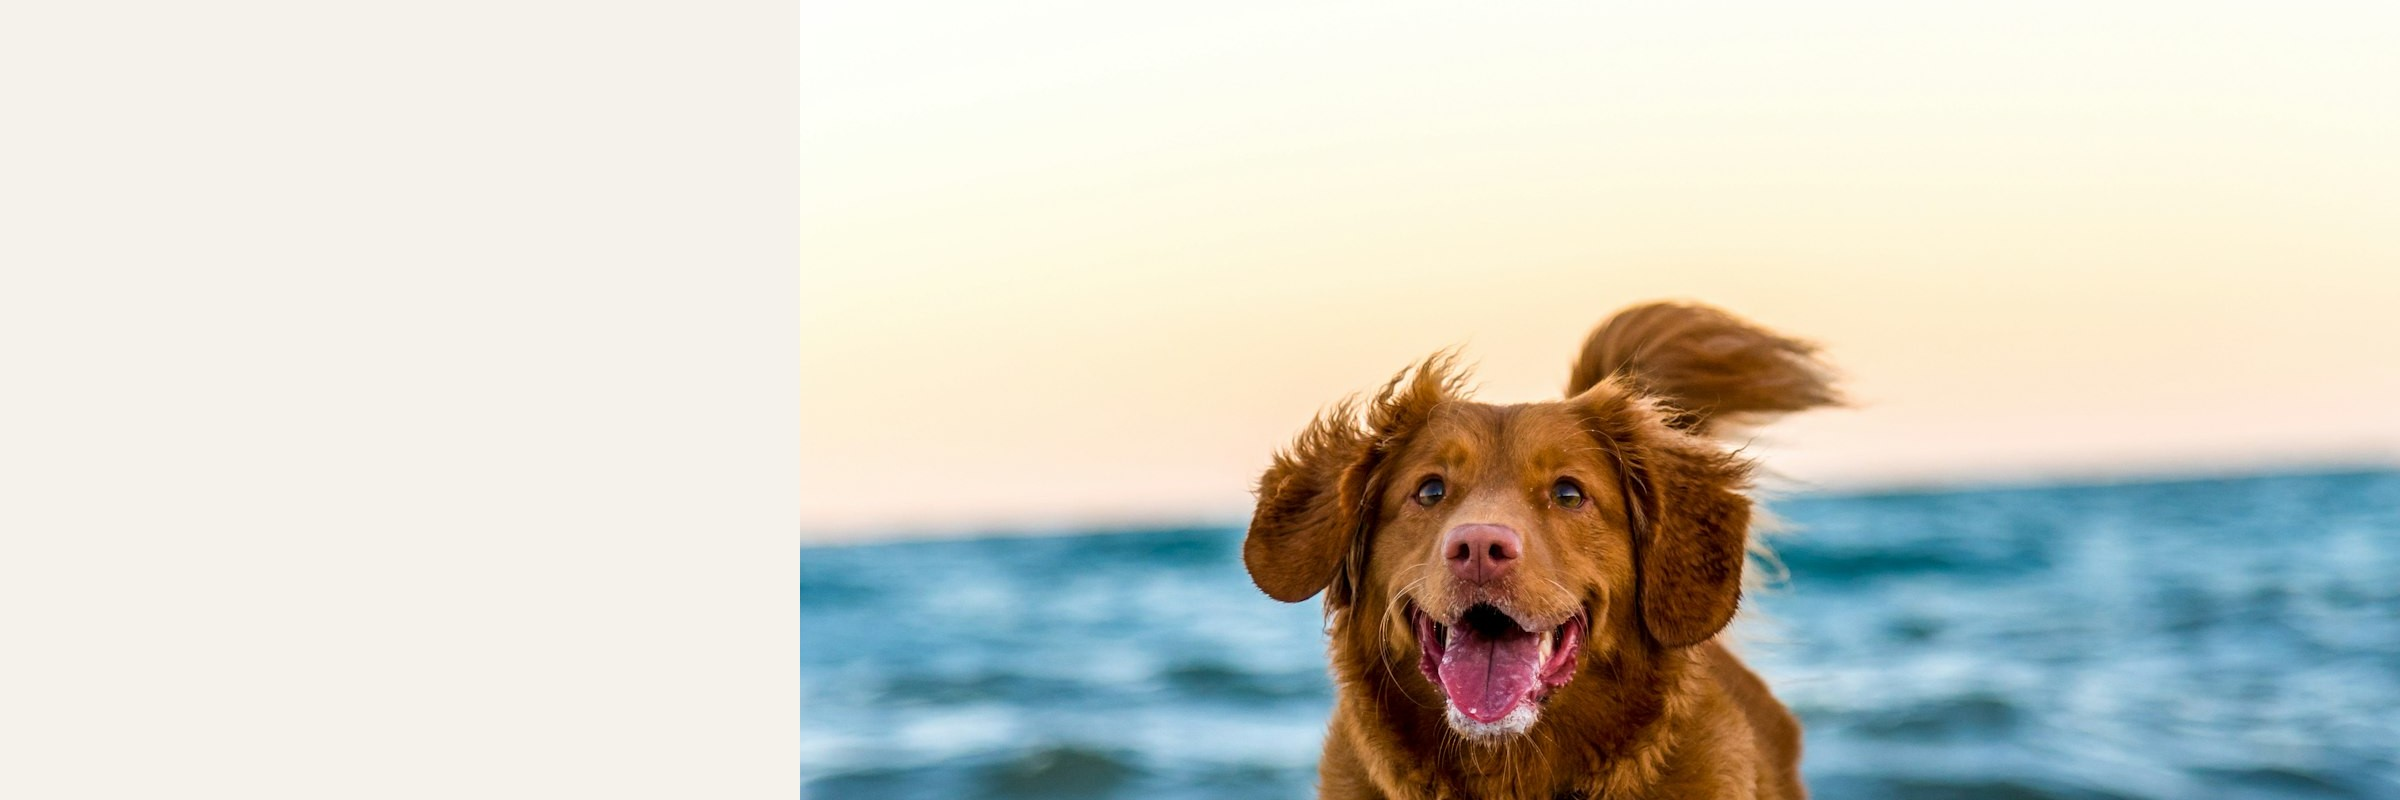
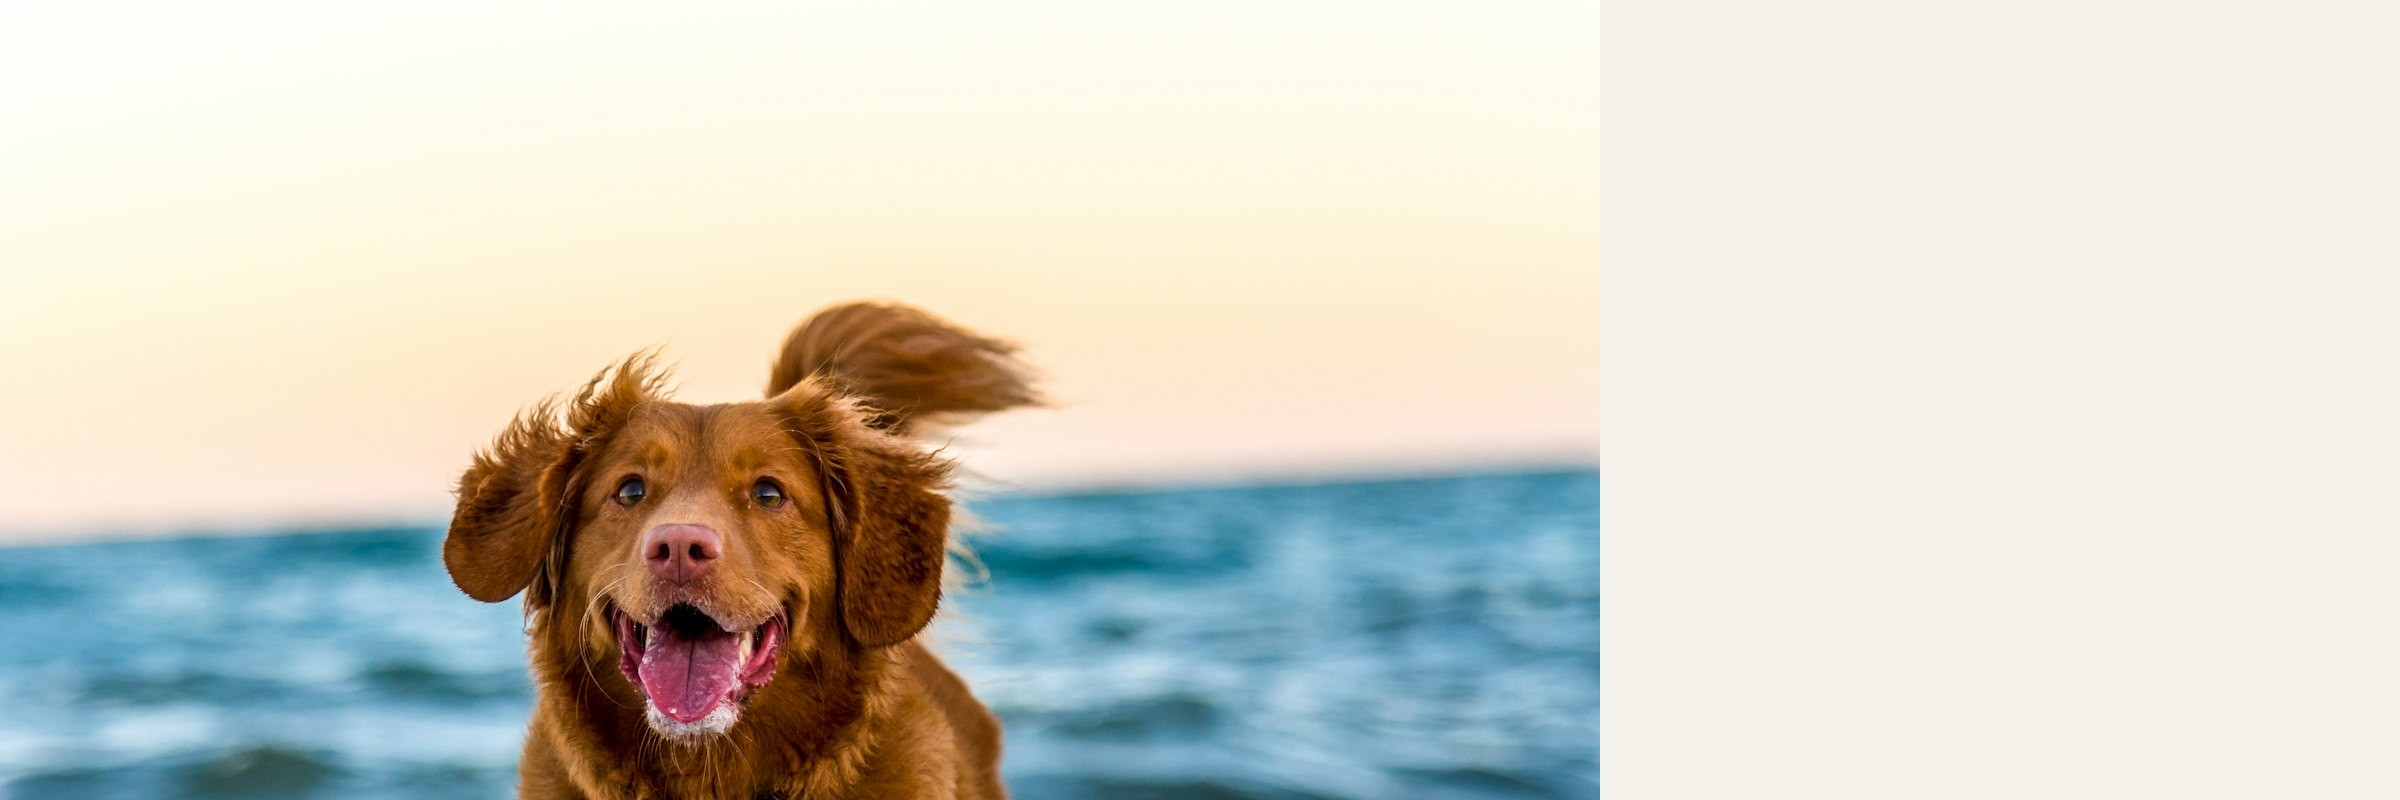
Fix About hero: dog on left, text on right, no overlap

diff --git a/index.html b/index.html
@@ -820,12 +820,12 @@
     <div id="about" class="page">
       <section class="hero" style="min-height:520px;">
         <div class="hero-bg" style="background-image: url('about-dog-hero.jpg'); transform: scale(1); background-position: center center;"></div>
-        <div class="hero-overlay"></div>
+        <div class="hero-overlay" style="background: linear-gradient(288deg, rgba(245,242,236,0.94) 0%, rgba(245,242,236,0.78) 40%, rgba(245,242,236,0.30) 68%, rgba(245,242,236,0.08) 100%);"></div>
         <div class="hero-fade"></div>
-        <div class="hero-content">
+        <div class="hero-content" style="text-align:right; display:flex; flex-direction:column; align-items:flex-end;">
           <p class="hero-eyebrow">About</p>
           <h1>From the exam room<br>to <em>the written page.</em></h1>
-          <p class="hero-sub">Experience is an excellent teacher, although it has a habit of giving the exam first and the lesson afterward.</p>
+          <p class="hero-sub" style="text-align:right;">Experience is an excellent teacher, although it has a habit of giving the exam first and the lesson afterward.</p>
         </div>
       </section>
       <div class="page-body">